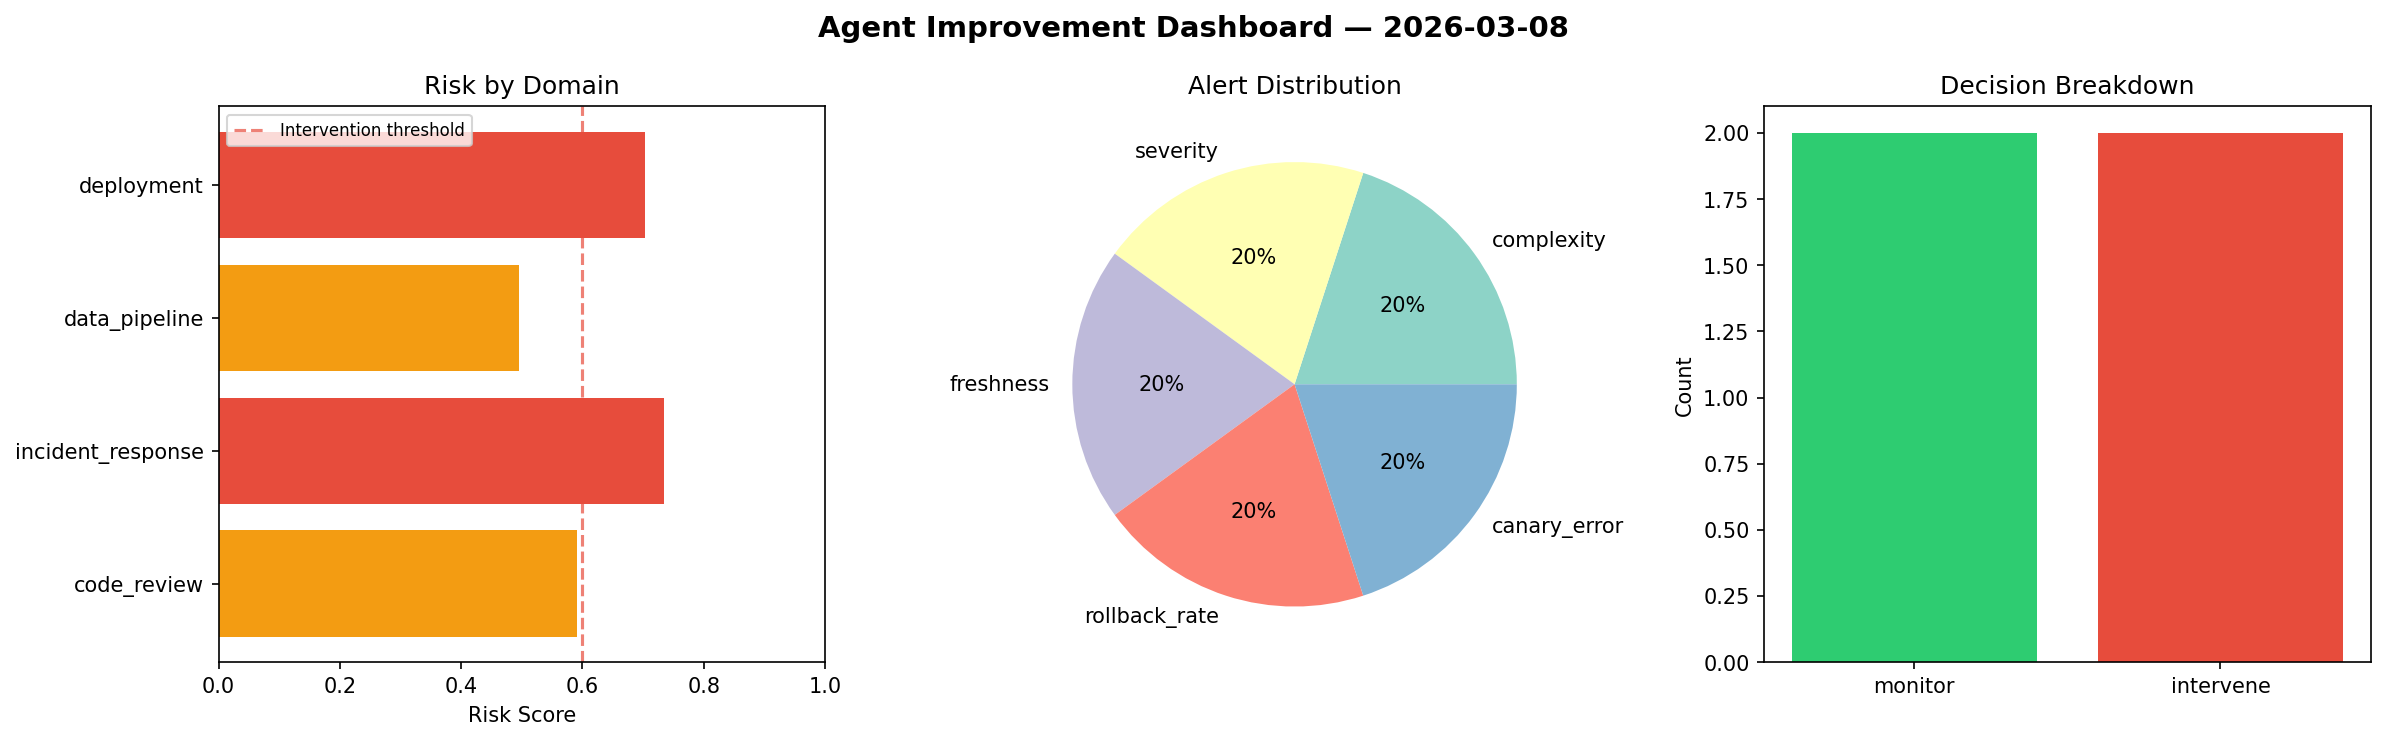
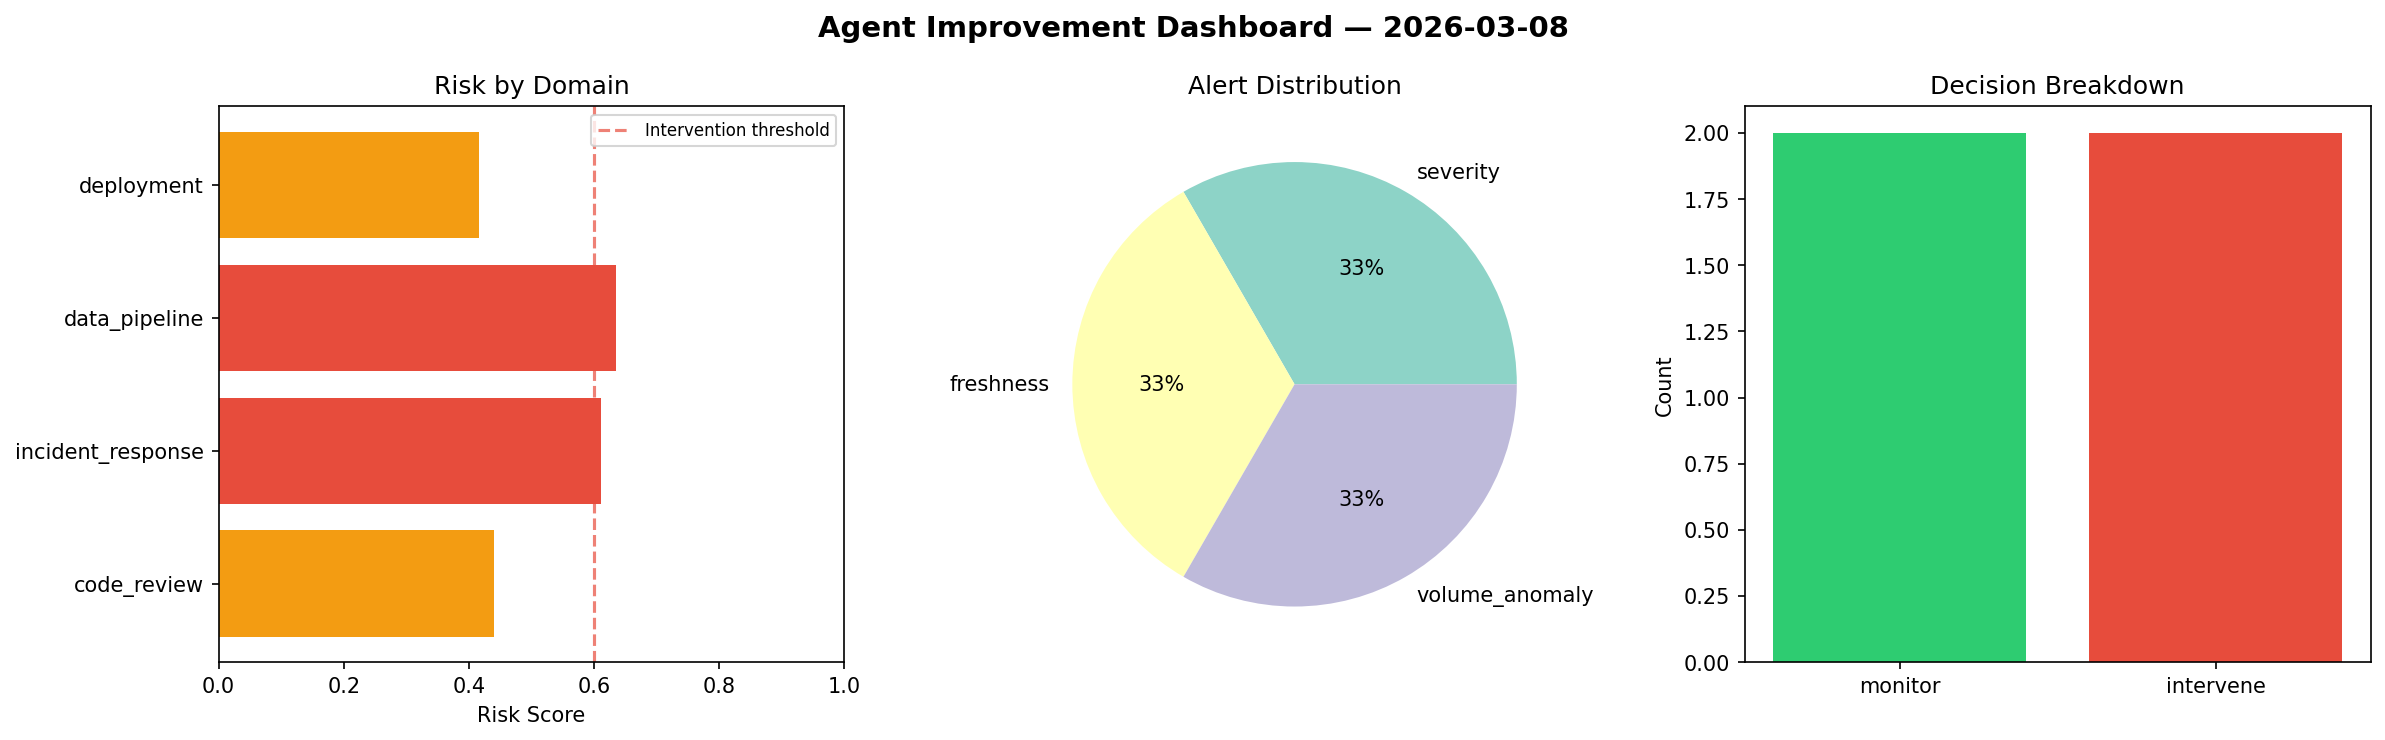
agent-improvement: daily cycle 2026-03-08T14:43

diff --git a/logs/2026-03-08.md b/logs/2026-03-08.md
@@ -1,6 +1,6 @@
 # Agent Improvement Report — 2026-03-08
 
-**Cycle ID:** `3137479b` | **Avg Risk:** 0.6306 | **Interventions:** 2/4
+**Cycle ID:** `a98c5dc1` | **Avg Risk:** 0.5252 | **Interventions:** 2/4
 
 ![Dashboard](2026-03-08_dashboard.png)
 
@@ -10,18 +10,18 @@
 
 | Domain | Risk Score | Decision | Alerts |
 |--------|-----------|----------|--------|
-| code_review | 0.5915 | monitor | complexity |
-| incident_response | 0.7338 | intervene | severity |
-| data_pipeline | 0.4948 | monitor | freshness |
-| deployment | 0.7024 | intervene | rollback_rate, canary_error |
+| code_review | 0.4394 | monitor | none |
+| incident_response | 0.6107 | intervene | severity |
+| data_pipeline | 0.6354 | intervene | freshness, volume_anomaly |
+| deployment | 0.4153 | monitor | none |
 
 ## Delta vs Yesterday
 
 | Domain | Today | Yesterday | Change |
 |--------|-------|-----------|--------|
-| code_review | 0.5915 | 0.4564 | 📈 29.6% |
-| incident_response | 0.7338 | 0.1261 | 📈 481.9% |
-| data_pipeline | 0.4948 | 0.2511 | 📈 97.1% |
-| deployment | 0.7024 | 0.637 | 📈 10.3% |
+| code_review | 0.4394 | 0.4564 | 📉 -3.7% |
+| incident_response | 0.6107 | 0.1261 | 📈 384.3% |
+| data_pipeline | 0.6354 | 0.2511 | 📈 153.0% |
+| deployment | 0.4153 | 0.637 | 📉 -34.8% |
 
-**Refinement:** `{'adjustment': 'tighten_thresholds', 'trend': 'degrading', 'window': 4}`
+**Refinement:** `{'adjustment': 'maintain', 'trend': 'improving', 'window': 4}`
